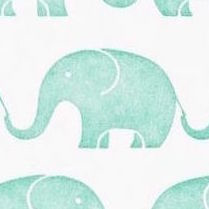
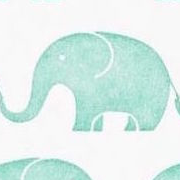
Gjort startsidans bilder runda aha bootstrap

diff --git a/quiz/templates/quiz/start.html b/quiz/templates/quiz/start.html
@@ -24,7 +24,7 @@
 	</div>
 	<div class="container">
 	{% for quiz in quizzes %}
-		<p> <a href="{% url 'quiz_page' quiz.quiz_number %}"> <img src="/static/img/icon{{ quiz.quiz_number }}.png">
+		<p> <a href="{% url 'quiz_page' quiz.quiz_number %}"> <img src="/static/img/icon{{ quiz.quiz_number }}.png" class="img-circle">
 		<br> {{quiz.name}}
 		</a></p>
 	{% endfor %}	

diff --git a/static/style.css b/static/style.css
@@ -5,7 +5,7 @@ html {
 */
 body {
 /*	background-color:#71E3CA;
-*/	background: linear-gradient(to bottom, white, lightblue, lightgreen);
+*/	background: linear-gradient(to bottom, lightblue, white, lightgreen);
 	background-size: cover;
 	min-height: 100%;
 }
@@ -25,7 +25,8 @@ h3 {
 }
 
 img {
-	width
+	width:300px;
+	height:300px;
 
 }
 
